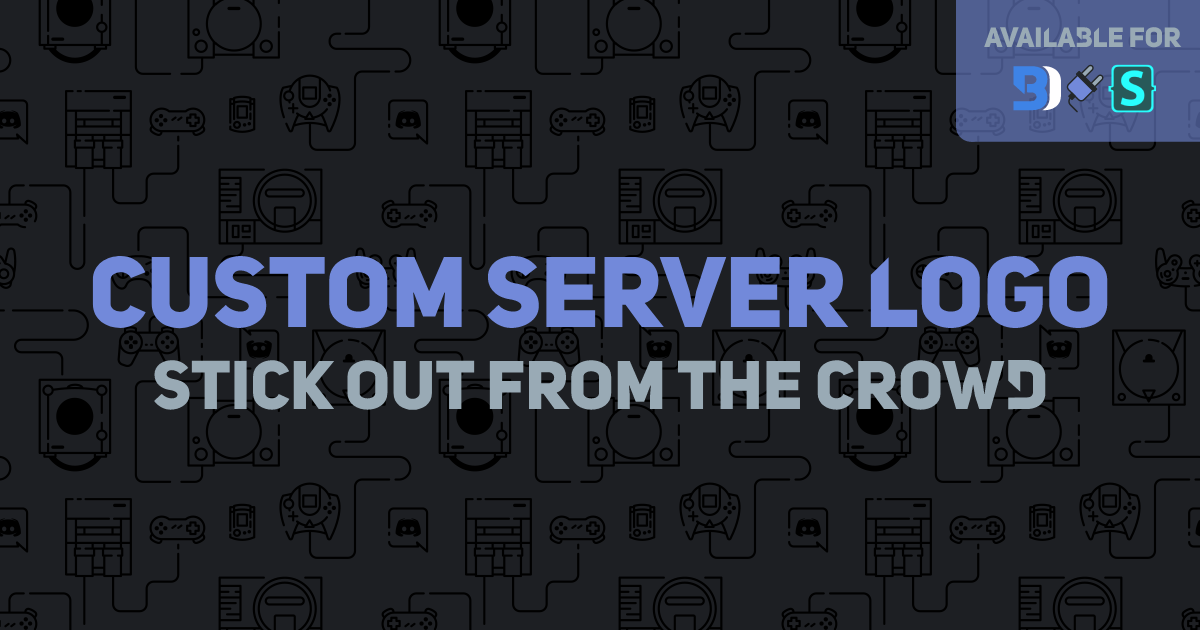
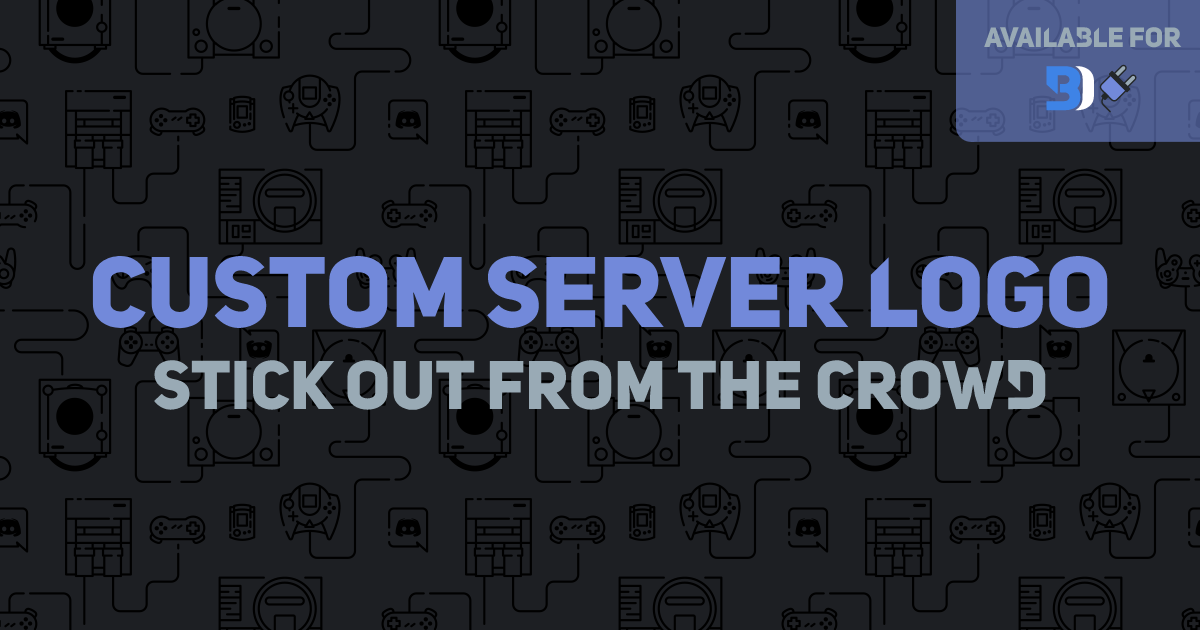
Removed Stylus from support list
Someone brought my attention it doesn't work

Changed region(s): [[0.8325, 0.0905, 0.9867, 0.181]]

diff --git a/README.md b/README.md
@@ -9,8 +9,6 @@
 **REQUEST SUBMISSIONS COMING SOON**
 
 
-[<img src="https://kckarnige.github.io/res/stylus_icon.svg" height="14px" width="14px"> Stylus Theme Install](https://raw.githubusercontent.com/kckarnige/custom-server-logos/master/index.user.css)
-
 [<img src="https://kckarnige.github.io/res/bd_icon.svg" height="14px" width="14px"> BetterDiscord Theme Download](https://betterdiscord.net/ghdl/?url=https://raw.githubusercontent.com/kckarnige/custom-server-logos/master/csl.theme.css)
 
 <img src="https://kckarnige.github.io/res/powercord.svg" height="14px" width="14px"> Powercord Theme Install ```git clone https://github.com/kckarnige/custom-server-logos```
